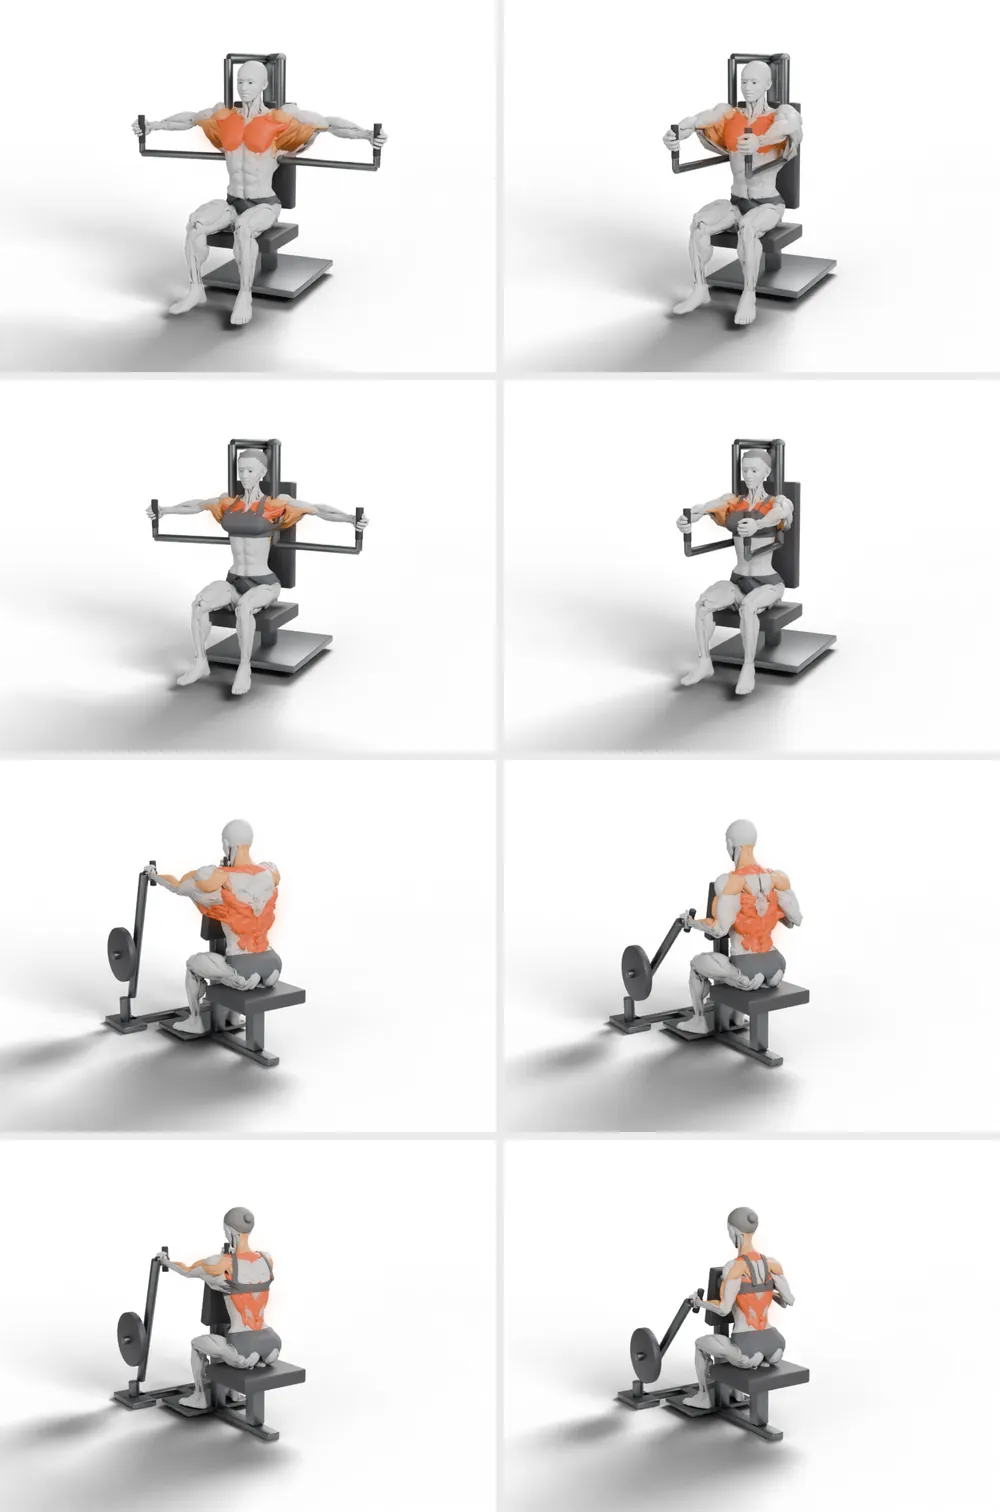
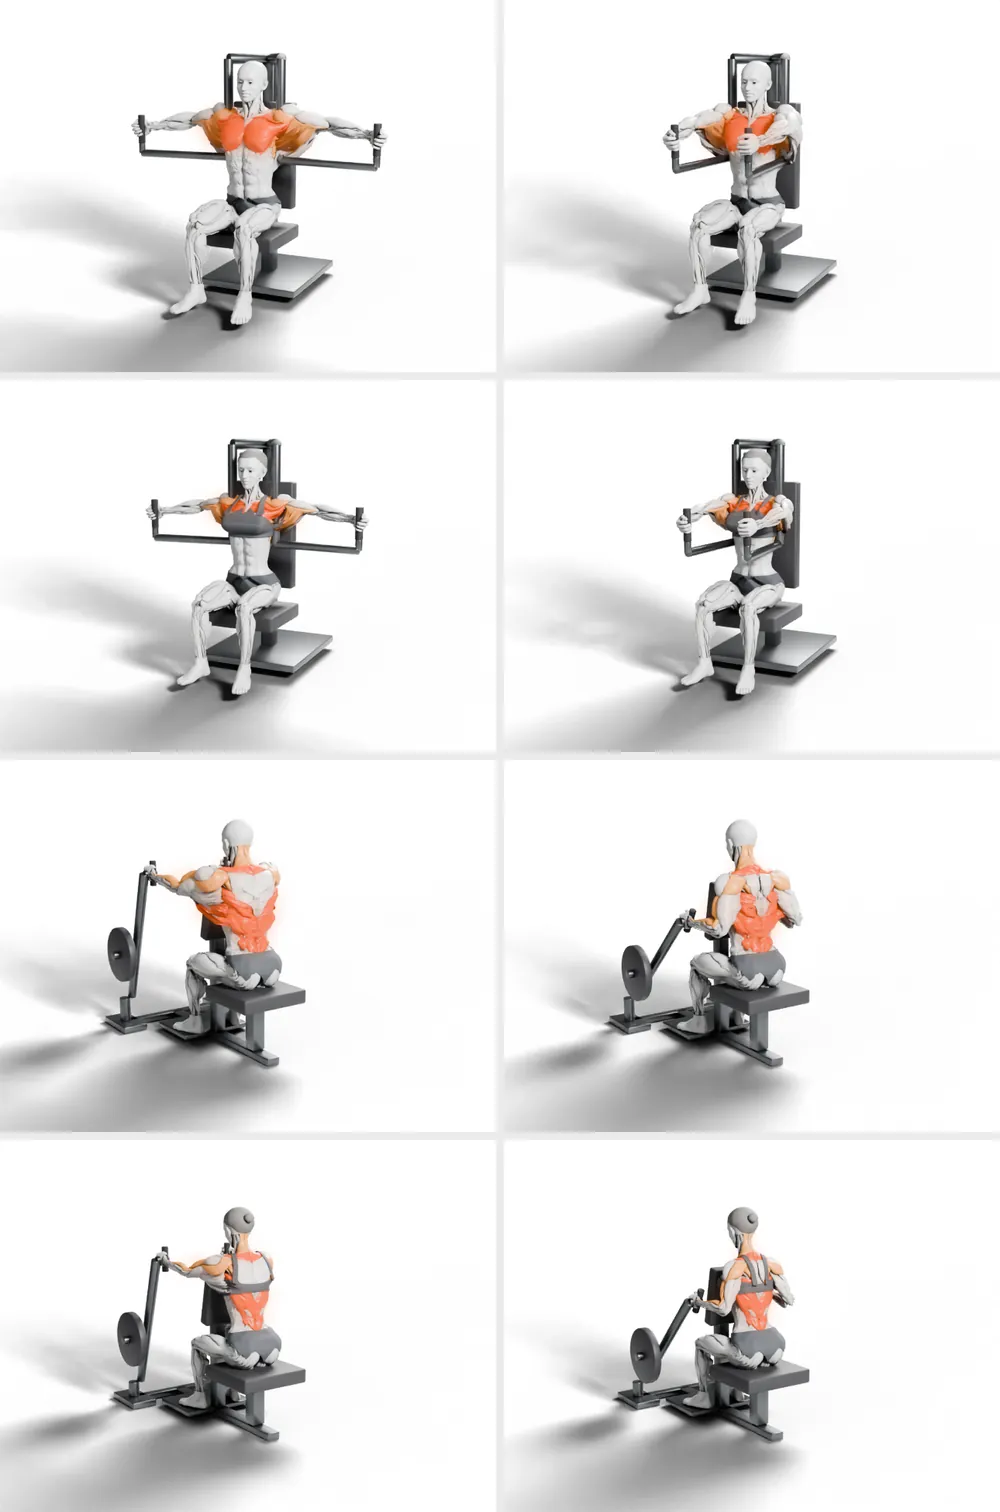
Crisper anatomy instead of clay: muscle definition pass, ecorche materials, re-rendered clips
Owner feedback: the models looked like plasticine.

- define.py: Taubin smoothing (no shrinkage) removes the crumpled atlas
  folds of broad flat muscles (latissimus, trapezius, obliques) and only
  fine ripple elsewhere; where muscles meet side by side (not in layers)
  the surface is inset ~2 mm, so each muscle reads as its own form
- look.py: ambient occlusion in the shader darkens the grooves between
  muscles, fibre striation runs along each muscle's main axis using rest
  coordinates (does not swim during animation), slight sheen instead of
  matte clay; harder key light and higher contrast
- both models, rigs, stills and all four demo clips re-rendered; loop
  seams checked; grip error stays 0 mm

Claude-Session: https://claude.ai/code/session_017DaissYJc2B4u5T6VmJDA4

diff --git a/tools/anatomy3d/blender/look.py b/tools/anatomy3d/blender/look.py
@@ -1,0 +1,87 @@
+"""Материалы экорше без «пластилина»: тень в бороздах между мышцами (ambient occlusion в шейдере), волокна вдоль
+главной оси каждой мышцы (рельеф по координатам покоя — не «плывут» при анимации), лёгкий блеск вместо матовой глины."""
+import bpy
+import numpy as np
+
+def _rest_attr(o):
+    """Координаты покоя как атрибут вершин: рельеф волокон привязан к мышце и при деформации ригом."""
+    me = o.data
+    if 'rest' in me.attributes:
+        return
+    a = np.empty(len(me.vertices) * 3, np.float32); me.vertices.foreach_get('co', a)
+    at = me.attributes.new('rest', 'FLOAT_VECTOR', 'POINT'); at.data.foreach_set('vector', a)
+
+def _shader(name, color, rough=0.36, emit=None, fibers=0.0, ao=0.72, coat=0.12):
+    m = bpy.data.materials.get(name) or bpy.data.materials.new(name)
+    m.use_nodes = True; m.use_fake_user = True
+    nt = m.node_tree; nt.nodes.clear(); N = nt.nodes; L = nt.links
+    out = N.new('ShaderNodeOutputMaterial'); b = N.new('ShaderNodeBsdfPrincipled')
+    L.new(b.outputs[0], out.inputs['Surface'])
+    b.inputs['Roughness'].default_value = rough
+    b.inputs['Coat Weight'].default_value = coat; b.inputs['Coat Roughness'].default_value = 0.3
+    # затенение борозд: цвет × (1 − ao·(1 − AO))
+    occ = N.new('ShaderNodeAmbientOcclusion'); occ.inside = False; occ.samples = 12
+    occ.inputs['Distance'].default_value = 0.03
+    mr = N.new('ShaderNodeMapRange'); mr.inputs['To Min'].default_value = 1 - ao; mr.inputs['To Max'].default_value = 1.0
+    L.new(occ.outputs['AO'], mr.inputs['Value'])
+    rgb = N.new('ShaderNodeRGB'); rgb.outputs[0].default_value = (*color, 1)
+    mul = N.new('ShaderNodeMix'); mul.data_type = 'RGBA'; mul.blend_type = 'MULTIPLY'; mul.inputs['Factor'].default_value = 1.0
+    L.new(rgb.outputs[0], mul.inputs['A']); L.new(mr.outputs['Result'], mul.inputs['B'])
+    L.new(mul.outputs['Result'], b.inputs['Base Color'])
+    if emit:
+        b.inputs['Emission Color'].default_value = (*emit[0], 1); b.inputs['Emission Strength'].default_value = emit[1]
+    if fibers > 0:
+        rest = N.new('ShaderNodeAttribute'); rest.attribute_type = 'GEOMETRY'; rest.attribute_name = 'rest'
+        fr = N.new('ShaderNodeAttribute'); fr.attribute_type = 'OBJECT'; fr.attribute_name = 'fiber_rot'
+        vr = N.new('ShaderNodeVectorRotate'); vr.rotation_type = 'EULER_XYZ'
+        L.new(rest.outputs['Vector'], vr.inputs['Vector']); L.new(fr.outputs['Vector'], vr.inputs['Rotation'])
+        mp = N.new('ShaderNodeMapping'); mp.inputs['Scale'].default_value = (0.08, 1.0, 1.0)   # вытянуто вдоль волокон (ось X)
+        L.new(vr.outputs[0], mp.inputs['Vector'])
+        nz = N.new('ShaderNodeTexNoise'); nz.inputs['Scale'].default_value = 650; nz.inputs['Detail'].default_value = 3
+        nz.inputs['Roughness'].default_value = 0.55
+        L.new(mp.outputs[0], nz.inputs['Vector'])
+        bump = N.new('ShaderNodeBump'); bump.inputs['Strength'].default_value = fibers; bump.inputs['Distance'].default_value = 0.0005
+        L.new(nz.outputs['Fac'], bump.inputs['Height']); L.new(bump.outputs['Normal'], b.inputs['Normal'])
+    return m
+
+MUSCLE = (0.80, 0.80, 0.79)
+PRIMARY = ((0.80, 0.075, 0.015), ((1.0, 0.16, 0.02), 0.25))
+SECONDARY = ((0.97, 0.40, 0.10), ((1.0, 0.45, 0.12), 0.08))
+
+def apply(prim=frozenset(), sec=frozenset()):
+    """Перестроить материалы модели и назначить подсветку (основные/вспомогательные — базовые имена мышц атласа)."""
+    for o in bpy.data.objects:
+        if o.type == 'MESH' and o.get('rynji_kind') == 'muscle':
+            _rest_attr(o)
+    mats = {
+        'muscle': _shader('rynji_muscle', MUSCLE, fibers=0.22),
+        'primary': _shader('rynji_primary', PRIMARY[0], emit=PRIMARY[1], fibers=0.18, ao=0.6),
+        'secondary': _shader('rynji_secondary', SECONDARY[0], emit=SECONDARY[1], fibers=0.18, ao=0.6),
+        'tendon': _shader('rynji_tendon', (0.90, 0.89, 0.86), rough=0.28, coat=0.25),
+        'skin': _shader('rynji_skin', (0.80, 0.80, 0.79), rough=0.45, coat=0.05, ao=0.55),
+        'bone': _shader('rynji_bone', (0.84, 0.82, 0.78), rough=0.45),
+    }
+    for o in bpy.data.objects:
+        k = o.get('rynji_kind')
+        if o.type != 'MESH' or k not in ('muscle', 'tendon', 'skin', 'bone'):
+            continue
+        if k == 'muscle':
+            b = o.get('rynji_id')
+            m = mats['primary'] if b in prim else mats['secondary'] if b in sec else mats['muscle']
+        else:
+            m = mats[k]
+        o.data.materials.clear(); o.data.materials.append(m)
+
+def light(sc, energy_key=420, size_key=0.9, fill=45, rim=300, world=0.18, look='AgX - Medium High Contrast'):
+    """Более жёсткий ключевой свет и слабый заполняющий — объём читается тенями, а не размывается."""
+    for o in sc.objects:
+        if o.type == 'LIGHT':
+            if o.name.startswith('key'):
+                o.data.energy = energy_key; o.data.size = size_key
+            elif o.name.startswith('fill'):
+                o.data.energy = fill
+            elif o.name.startswith('rim'):
+                o.data.energy = rim
+    if sc.world and sc.world.node_tree:
+        sc.world.node_tree.nodes['Background'].inputs[1].default_value = world
+    sc.view_settings.look = look

diff --git a/tools/anatomy3d/blender/define.py b/tools/anatomy3d/blender/define.py
@@ -1,0 +1,72 @@
+"""Чёткость формы мышц (против «пластилина»):
+1) сглаживание складок атласа (Taubin, без усадки): широкие плоские мышцы (широчайшая, трапеция, наружная косая…) — сильно,
+   остальные — только мелкая рябь; тонкие волокна потом даёт рельеф материала;
+2) борозды между соседними мышцами: там, где мышцы прилегают друг к другу боком (не слоями), поверхность уходит внутрь
+   на ~2 мм — каждая мышца читается отдельной формой, тень в бороздах даёт свет.
+Запуск: python -I define.py -- <in.blend> <out.blend>"""
+import bpy, sys, re
+import numpy as np
+from scipy.spatial import cKDTree
+
+args = sys.argv[sys.argv.index('--') + 1:]
+src, out = args[0], args[1]
+bpy.ops.wm.open_mainfile(filepath=src, load_ui=False, use_scripts=False)
+
+BROAD = re.compile(r'Latissimus|trapezius|External abdominal oblique|Serratus posterior|Thoracolumbar fascia|Infraspinatus|'
+                   r'Rhomboid|Gluteus maximus|Iliocostalis|Longissimus|Spinalis|Splenius|Teres major', re.I)
+DEPTH = float(args[2]) if len(args) > 2 else 0.0018
+
+objs = [o for o in bpy.data.objects if o.type == 'MESH' and o.get('rynji_kind') == 'muscle']
+
+def verts(o):
+    a = np.empty(len(o.data.vertices) * 3); o.data.vertices.foreach_get('co', a); return a.reshape(-1, 3)
+
+# 1) сглаживание складок — Taubin (λ/μ): форма не съёживается и тонкие сетки не «уплывают»; только широкие плоские мышцы
+def taubin(o, iters, lam=0.5, mu=-0.53):
+    me = o.data; n = len(me.vertices)
+    e = np.empty(len(me.edges) * 2, np.int64); me.edges.foreach_get('vertices', e); e = e.reshape(-1, 2)
+    deg = np.bincount(e.ravel(), minlength=n).astype(np.float64)[:, None]
+    v = verts(o)
+    for _ in range(iters):
+        for f in (lam, mu):
+            acc = np.zeros_like(v); np.add.at(acc, e[:, 0], v[e[:, 1]]); np.add.at(acc, e[:, 1], v[e[:, 0]])
+            avg = np.where(deg > 0, acc / np.maximum(deg, 1), v)
+            v = v + f * (avg - v)
+    me.vertices.foreach_set('co', v.ravel()); me.update()
+
+for o in objs:
+    taubin(o, 12 if BROAD.search(o.get('rynji_id', o.name)) else 4)     # остальные — только мелкая «рябь»
+
+# 2) борозды на стыках
+P, I, NRM = [], [], []
+for i, o in enumerate(objs):
+    v = verts(o)
+    n = np.empty(len(v) * 3); o.data.vertices.foreach_get('normal', n); n = n.reshape(-1, 3)
+    _, nb = cKDTree(v).query(v, k=min(24, len(v)))
+    n = n[nb].mean(1); n /= np.maximum(np.linalg.norm(n, axis=1, keepdims=True), 1e-9)
+    P.append(v); NRM.append(n); I.append(np.full(len(v), i))
+allP = np.concatenate(P); allI = np.concatenate(I)
+tree = cKDTree(allP)
+R = 0.007
+for i, o in enumerate(objs):
+    v, n = P[i], NRM[i]
+    d, idx = tree.query(v, k=24, distance_upper_bound=R)
+    ok = np.isfinite(d)
+    idx = np.where(ok, idx, 0)
+    other = ok & (allI[idx] != i)
+    rel = allP[idx] - v[:, None, :]
+    rl = np.maximum(np.linalg.norm(rel, axis=2), 1e-9)
+    lateral = np.abs(np.einsum('ijk,ik->ij', rel, n)) / rl < 0.55          # сосед сбоку, а не слоем ниже/выше
+    w = np.where(other & lateral, 1 - d / R, 0).max(1)
+    if not (w > 0).any():
+        continue
+    # плавный профиль борозды: сглаживание веса по своей сетке
+    _, nb = cKDTree(v).query(v, k=min(12, len(v)))
+    w = w[nb].mean(1)
+    o.data.vertices.foreach_set('co', (v - n * (DEPTH * np.clip(w * 1.6, 0, 1))[:, None]).ravel()); o.data.update()
+
+for m in bpy.data.materials:
+    if m.name.startswith('rynji_'):
+        m.use_fake_user = True
+bpy.ops.wm.save_as_mainfile(filepath=out, compress=True)
+print('DEFINED', len(objs), 'SAVED', out)

diff --git a/tools/anatomy3d/blender/render_views.py b/tools/anatomy3d/blender/render_views.py
@@ -11,27 +11,9 @@ W = int(os.environ.get('W', 720)); H = int(os.environ.get('H', 1280)); S = int(o
 bpy.ops.wm.open_mainfile(filepath=src, load_ui=False, use_scripts=False)
 sc = bpy.context.scene
 
-mats = {m.name: m for m in bpy.data.materials}
-
-def tint(name, color, emit, strength):
-    """Цвета подсветки задаются при рендере (не нужно пересобирать модель): насыщенный красно-оранжевый и светлый оранжевый."""
-    m = mats.get(name) or bpy.data.materials.new(name)
-    m.use_nodes = True
-    b = next(n for n in m.node_tree.nodes if n.type == 'BSDF_PRINCIPLED')
-    b.inputs['Base Color'].default_value = (*color, 1)
-    b.inputs['Emission Color'].default_value = (*emit, 1)
-    b.inputs['Emission Strength'].default_value = strength
-    b.inputs['Roughness'].default_value = 0.42
-    mats[name] = m
-
-tint('rynji_primary', (0.78, 0.085, 0.018), (1.0, 0.16, 0.02), 0.22)
-tint('rynji_secondary', (0.96, 0.40, 0.11), (1.0, 0.45, 0.12), 0.08)
-for o in bpy.data.objects:
-    if o.get('rynji_kind') != 'muscle':
-        continue
-    b = o.get('rynji_id')
-    o.data.materials.clear()
-    o.data.materials.append(mats['rynji_primary'] if b in prim else mats['rynji_secondary'] if b in sec else mats['rynji_muscle'])
+sys.path.insert(0, os.path.dirname(os.path.abspath(__file__)))
+import look
+look.apply(prim, sec)                         # материалы экорше: тень в бороздах, волокна, лёгкий блеск
 
 # рамка фигуры
 mn = Vector((1e9,) * 3); mx = Vector((-1e9,) * 3)
@@ -87,6 +69,7 @@ for v in views:
         area('fill', tgt + dirv * 3 - side * 2.6 + Vector((0, 0, 0.6)), 90, 3.0, tgt),
         area('rim', tgt - dirv * 2.5 + side * 1.2 + Vector((0, 0, 2.0)), 220, 1.5, tgt),
     ]
+    look.light(sc)
     sc.render.filepath = os.path.join(out_dir, f'{v}.png')
     bpy.ops.render.render(write_still=True)
     print('RENDERED', v)

diff --git a/tools/anatomy3d/blender/anim.py b/tools/anatomy3d/blender/anim.py
@@ -5,7 +5,7 @@ import bpy, sys, os, json, math
 import numpy as np
 from mathutils import Vector, Matrix
 sys.path.insert(0, os.path.dirname(os.path.abspath(__file__)))
-import posing, stage
+import posing, stage, look
 
 a = sys.argv[sys.argv.index('--') + 1:]
 src, spec_path, map_path, out = a[0], a[1], a[2], a[3]
@@ -236,11 +236,12 @@ for i, f in enumerate(frames):
 
 # --- подсветка, свет, камера, рендер ----------------------------------------------------------------
 names = lambda ids: {n for i in ids for n in amap.get(i, [])}
-stage.highlight(names(spec['highlight']['primary']), names(spec['highlight']['secondary']))
+look.apply(names(spec['highlight']['primary']), names(spec['highlight']['secondary']))
 stage.setup(sc, W, H, S, floor_z=sole - 0.045)
 cam = spec['cameras'][int(os.environ.get('CAM', 0))]
 target = (0, J['pelvis'][1] - 0.05, (J['gh.L'][2] + sole) / 2 + 0.12) if ex == 'pec_deck' else (0, J['pelvis'][1] - 0.05, (J['gh.L'][2] + sole) / 2 + 0.10)
 stage.camera(sc, target, cam['azimuth_deg'], cam['elevation_deg'], float(os.environ.get('DIST', 3.9)), lens=50)
+look.light(sc)                                                   # жёсткий ключевой свет — объём тенями, без «пластилина»
 only = [int(x) for x in os.environ.get('ONLY', '').split(',') if x != '']
 if save:
     bpy.ops.wm.save_as_mainfile(filepath=save, compress=True)

diff --git a/tools/anatomy3d/blender/README.md b/tools/anatomy3d/blender/README.md
@@ -22,6 +22,8 @@ W=640 H=480 SAMPLES=16 python -I anim.py -- $M/male_rig.blend ../exercises/pec_d
 | `fetch_atlas.sh` | клонирует атлас, распаковывает `Startup.blend` (≈300 МБ) вне репозитория |
 | `build_male.py` | ~210 мышц (поверхностные и закрывающие просветы глубокие), сухожилия и апоневрозы, ~210 костей, кожа головы, кистей и стоп, глаза; нормали наружу; положение объектов (в т. ч. дельта-трансформации атласа) — в вершины; материалы; части атласа под NC-лицензиями не берутся |
 | `physique.py` | прирост толщины каждой поверхностной мышцы по брюшку (ноль у сухожилий) вдоль сглаженной нормали; лежащие поверх выталкиваются, глубокие не прорезают поверхностные. `male` — бодибилдер (×1,5), `female` — ягодицы и ноги относительно больше, верх меньше (×0,5) |
+| `define.py` | чёткость формы (против «пластилина»): складки широких плоских мышц атласа сглаживаются (Taubin, без усадки), остальные — только мелкая рябь; где мышцы прилегают боком, поверхность уходит внутрь на ~2 мм — борозды между мышцами |
+| `look.py` | материалы экорше: тень в бороздах (ambient occlusion в шейдере), волокна вдоль главной оси мышцы по координатам покоя (не «плывут» в анимации), лёгкий блеск; более жёсткий ключевой свет |
 | `morph_female.py` | уже плечи и грудная клетка, тоньше талия и шея, шире таз и бёдра (Q-угол), руки короче и тоньше, голова относительно крупнее, рост 1,62 м; кости, мышцы и кожа деформируются одним полем — крепления на месте |
 | `female_extras.py` | грудь (под топом), волосы-скульптура по черепу с линией роста волос и пучок |
 | `garment.py` | одежда по выпуклой оболочке срезов тела: плавки; топ с лямками через надплечья и трусы |

diff --git a/docs/feedback/round-6.md b/docs/feedback/round-6.md
@@ -19,6 +19,16 @@
 | 9 | Лицензии | `docs/ASSETS_LICENSES.md`: атлас — CC BY-SA 4.0, геометрия — BodyParts3D © DBCLS (CC BY-SA 2.1 JP); части атласа под некоммерческими лицензиями не используются. Ролики и кадры — производные работы под CC BY-SA 4.0 | Сделано |
 | 10 | Не расширять на все 114 упражнений до одобрения | Только два демо-упражнения; остальные — прежние ролики | Ждёт решения владельца |
 
+## Раунд 6.1: «получились какие-то пластилиновые»
+
+| Что было | Что сделано |
+|---|---|
+| Широкие плоские мышцы (широчайшая, трапеция, косая) — смятые складки атласа, после набора массы — «жёваный» рельеф | `define.py`: складки сглажены без усадки (Taubin), у остальных мышц убрана только мелкая рябь |
+| Мышцы сливались в один ком: между соседними нет борозды | `define.py`: где мышцы прилегают боком, поверхность уходит внутрь ~2 мм — каждая мышца отдельной формой |
+| Матовая серая «глина», ровный яркий свет | `look.py`: тень в бороздах (ambient occlusion в шейдере), волокна вдоль каждой мышцы (не «плывут» в движении), лёгкий блеск; более жёсткий ключевой свет, контраст выше |
+
+Пересобраны обе модели, риг, кадры моделей и все 4 ролика.
+
 ## Что проверено
 
 Кадры: `docs/anatomy-3d/stills/` (рендер Blender, не скриншот приложения).
